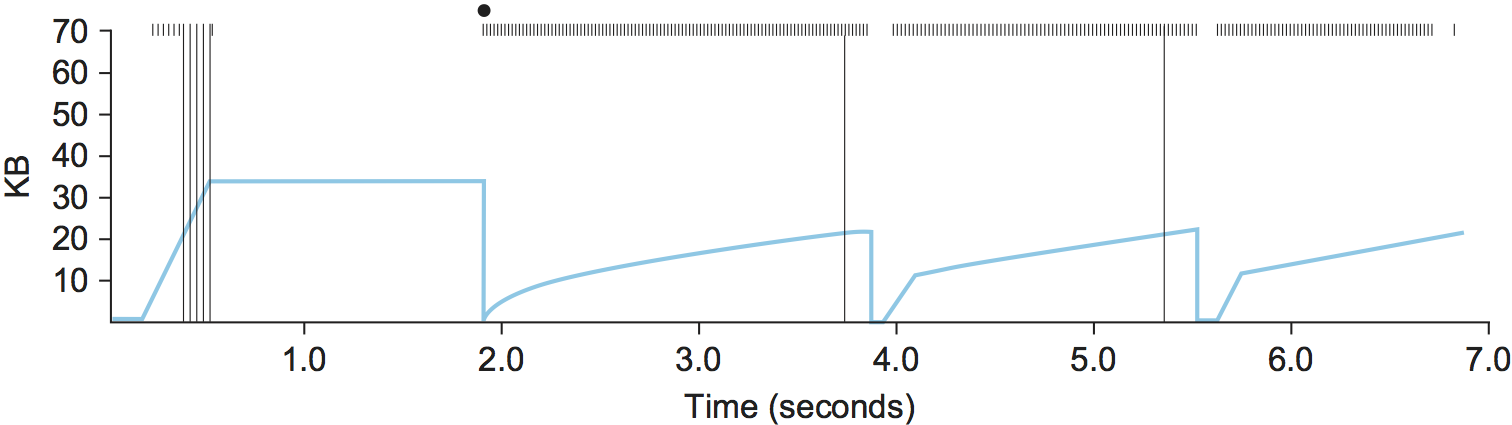
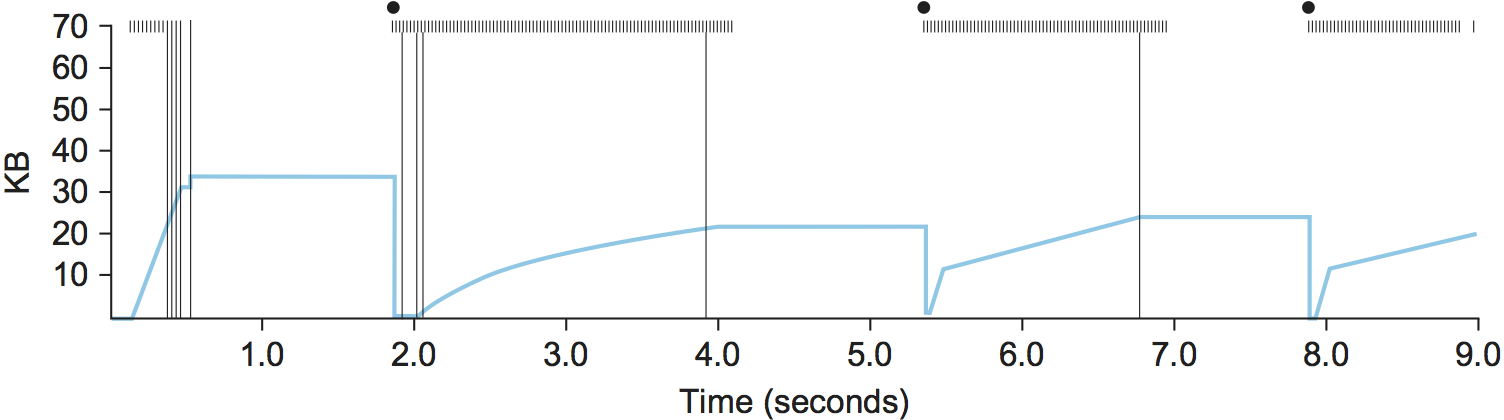
GITBOOK-21: No subject

diff --git a/chapter-5-avoidancebased-tcp-yong-sai-kong-zhi-suan-fa/5.1-tcp-vegas-wei-xiao-zheng.md b/chapter-5-avoidancebased-tcp-yong-sai-kong-zhi-suan-fa/5.1-tcp-vegas-wei-xiao-zheng.md
@@ -1,0 +1,29 @@
+# 5.1 TCP Vegas 未校正
+
+TCP Vegas背后的核心思想是基于测量的吞吐率和预期的吞吐率之间的比较，来调整发送速率。之所以要这么做的原因，可以从图29中TCP Reno的曲线看出。最上面的图跟踪了连接的拥塞窗口；它与上一章中展示的信息一样。中间和下面的图提供了新的信息。中间的图展示了发送端的发送速率，下面的图展示了瓶颈路由器的平均队列长度。3 个图的时间轴时同步的。在 4.5 和 6 秒之间（蓝色阴影区域），拥塞窗口在增加（上图）。我们预期发送端吞吐率也增加，但是实际上却保持不变（中图）。这是因为吞吐量不能超过实际可用带宽。在这个区间内，增加窗口大小只会使得瓶颈路由器的 buffer 被填的更满（下图）。
+
+<figure><img src="../.gitbook/assets/image (16).png" alt=""><figcaption><p>图29：拥塞窗口和观察到的吞吐率（三个图是同步的）。上：拥塞窗口；中：观察到的吞吐率；下：路由器中的buffer空间。蓝线：拥塞窗口大小；实心圆点：超时发生；短竖线：每次发送packet时间；长竖线：最终要重传的packet第一次发送的时间。</p></figcaption></figure>
+
+图 29 中的现象就像是在冰上开车。速度表（对应拥塞窗口）或许显示当前速率时 30miles/h，但是从车窗外望去可以看见步行的人走的都比你快（对应测量的吞吐量），所以你直到你的实际速率小于 5miles/h。这个比喻里车轮的空转就像是上图中发送的额外的 packet，除了占用了路由器的 buffer，并没有什么实际的效果。
+
+基于这里的思想，TCP Vegas测量当前网络的带宽，当 TCP 发送端的发送速率等于当前网络带宽时，它将不会发送额外的数据。TCP Vegas 的目标是维持“正确的”网络中传输数据量。很明显，如果 TCP 发送端发送了太多数据到网络中，会导致更长的延时，甚至导致拥塞。不太明显的是，如果一个连接发送的额外数据太少，它就无法对可用网络带宽的瞬时增加做出足够快速的响应。TCP Vegas 的拥塞规避行为是基于对网络中额外数据预估值的变化，而不是仅仅基于丢包。我们接下来详细描述这里的算法。
+
+首先，定义一个 TCP 连接的 `BaseRTT` 为当网络不拥塞时一个包的 RTT。TCP Vegas取 `BaseRTT` 为所有测量到的 RTT 的最小值，通常是一个 TCP 连接的第一个包的 RTT，因为此时路由器的队列还没有因为当前这个 TCP 连接二增加。假设没有拥塞，那么预期的吞吐量 `ExpectedRate` 为：
+
+<figure><img src="../.gitbook/assets/image.png" alt="" width="373"><figcaption></figcaption></figure>
+
+这里我们假设传输中的数据量（bytes）等于 `CongestionWindow`。
+
+接下来，TCP Vegas 会计算当前的发送速率 `ActualRate`。这是通过记录每一个包的发送时间和对应的 ACK 收到时间，用这段时间发送的字节数除以时间差得到。每个 RTT 时间都会计算一次`ActualRate`。
+
+接下来，TCP Vegas 会比较`ExpectedRate`和`ActualRate`，并根据结果调整拥塞窗口大小。假设 `Diff = ExpectedRate - ActualRate`，那么 Diff 必然大于等于 0。因为当 `ActualRate` 大于 `ExpectedRate` 时，当前的 RTT 小于 `BaseRTT`。当这发生时，说明 `BaseRTT` 已经失效，我们需要更新 `BaseRTT` 为当前的 RTT。这里再定义两个阈值α和β，分别表示网络中传输的数据太少和太多。当 Diff 小于α时，TCP Vegas 在下次 RTT 中线性增加拥塞窗口大小，当 Diff 大于β时，TCP Vegas 在下次 RTT 中线性减少拥塞窗口大小。当 Diff 位于α和β之间时，TCP Vegas 保持拥塞窗口不变。
+
+很明显，当 ActualRate 越小于 ExpectedRate 时，网络会更加拥塞，暗示着发送速率该降低了。β阈值控制了这里的降低。另一方面，当 ActualRate 接近 ExpectedRate 时，TCP 连接可能未能充分利用可用的带宽。α阈值会触发增加发送速率。总体目标是保持网络中传输的数据量在α和β之间。
+
+图30展示了TCP Vegas的拥塞规避算法。上图展示了拥塞窗口的大小；下图展示了预期的和实际的吞吐量，这里的吞吐量会控制拥塞窗口的大小。下图更好的展示了算法时如何工作的。蓝色线代表了`ExpectedRate`，黑线代表了`ActualRate`。蓝色粗阴影线展示了α和β之间的区域：阴影的上边界表明了与ExpectedRate差距 α KBps，阴影的下边界表明了与`ExpectedRate`差距 β KBps。算法的目标就是让`ActualRate`位于这两个阈值之间，也就是在阴影区域内。当`ActualRate`在阴影区域下方时（也就是离`ExpectedRate`太远），TCP Vegas会减少拥塞窗口大小，因为它担心会有太多的包被缓存到网络中。类似的，当`ActualRate`在阴影区域上方时（也就是离`ExpectedRate`太近），TCP Vegas会增加拥塞窗口大小，因为它担心没有用分利用网络。
+
+<figure><img src="../.gitbook/assets/image (1).png" alt=""><figcaption><p>图30：TCP Vegas拥塞规避算法机制展示。</p></figcaption></figure>
+
+因为α和β是吞吐量差值的阈值，所以它们的单位时KBps。然而，跟Control-based拥塞算法一样，如果按照网络中传输的packet数来理解该算法，会更加精确。例如，对于一个TCP连接，其`BaseRTT`是100ms，一个packet大小是1KB，如果α = 30KBps且β = 60KBps，那么我们可以认为α表明该TCP连接需要占据网络中至少3个packet大小的buffer，而β表明该TCP连接应该占据网络中不超过6个packet大小的buffer。这样设置α和β在Vegas的最初部署中工作的很好，但是我们下一节可以看到，这些参数会随着不同的环境而持续改变。
+
+最后，你会发现TCP Vegas线性的减少拥塞窗口，这与前面提到的乘法递减以确保稳定性是矛盾的。TCP Vegas在超时发生时的确会使用乘法递减；这里的线性递减只是在拥塞发生和实际丢包之前，等于说此时什么都还没有发生，不必这么激进。

diff --git a/chapter-4-controlbased-tcp-yong-sai-kong-zhi-suan-fa/4.4-kuai-su-zhong-chuan-he-kuai-su-hui-fu-wei-xiao-zheng.md b/chapter-4-controlbased-tcp-yong-sai-kong-zhi-suan-fa/4.4-kuai-su-zhong-chuan-he-kuai-su-hui-fu-wei-xiao-zheng.md
@@ -8,11 +8,11 @@
 
 第二次发送的，相同的 ACK 被称为重复 ACK（duplicate ACK）。当发送端看到了一个重复 ACK，它就知道接收端必然收到了一个乱序的包，并且之前的包可能已经被丢弃了。当然之前的包也可能只是被耽误了，而不是被丢弃了，所以发送端会等待知道看到足够多的重复 ACK（实际中 3 个），再判断发生了丢包，并重传。这里的假设是，并且也经过了大量的实际测试，包的乱序传输比丢包要少的多。
 
-<figure><img src="../.gitbook/assets/image (1).png" alt="" width="325"><figcaption><p>图 26：基于重复 ACK 的快速重传</p></figcaption></figure>
+<figure><img src="../.gitbook/assets/image (1) (1).png" alt="" width="325"><figcaption><p>图 26：基于重复 ACK 的快速重传</p></figcaption></figure>
 
 图 26 展示了重复 ACK 时如何触发快速重传的。在这个例子里，接收端收到了 packet 1 和 2，但是 packet 3被网络丢弃了。因此接收端在收到 packet 4,5,6 时，会回复针对 packet 2 的重复 ACK（为了简化这里的描述，我们这里基于 packet1,2,3 描述，而不是基于序列号描述）。当发送端看到了针对 packet 2 的第三个重复 ACK，也就是 packet 6 触发的，它会重传 packet 3。这里注意的是，当 重传的packet 3到达接收端时，接收端会发送一个累积的 ACK 来确认包括 packet 6在内的所有收到的数据。
 
-<figure><img src="../.gitbook/assets/image (2).png" alt=""><figcaption><p>图 27：TCP 快速重传下拥塞控制行为。蓝色线=拥塞窗口随时间变化曲线；顶部实心圆点=发生超时；顶部小短竖线=发包；长竖线=最终会重传的报第一次发送的时间</p></figcaption></figure>
+<figure><img src="../.gitbook/assets/image (2) (1).png" alt=""><figcaption><p>图 27：TCP 快速重传下拥塞控制行为。蓝色线=拥塞窗口随时间变化曲线；顶部实心圆点=发生超时；顶部小短竖线=发包；长竖线=最终会重传的报第一次发送的时间</p></figcaption></figure>
 
 图 27 展示了带有快速重传机制的 TCP 的行为。将之与图 25 ，不包含快速重传，进行对比可以发现，拥塞窗口长时间保持水平，并且没有 packet 发送的过程被消除了。总的来说，在一个典型的 TCP 连接中，快速重传可以消除大概一半粗粒度的超时重传，带来大概 20% 的吞吐提升。但是需要注意的时，快速重传并没有消除全部的粗粒度超时重传。这是由于对于小的窗口，不能有对应的packet来触发重复ACK（注，假设窗口大小只有3个packet，那第1个packet丢弃了，后两个packet也只能产生2个重复ACK）。在足够多的丢包情况下，例如在初始的慢启动阶段，滑动窗口算法最终会阻塞发送方，直到发生超时。实际中，TCP的快速重传机制可以在每个窗口中最多探测3个丢包。
 

diff --git a/chapter-4-controlbased-tcp-yong-sai-kong-zhi-suan-fa/4.3-man-qi-dong-slow-start-wei-xiao-zheng.md b/chapter-4-controlbased-tcp-yong-sai-kong-zhi-suan-fa/4.3-man-qi-dong-slow-start-wei-xiao-zheng.md
@@ -40,7 +40,7 @@
 
 图 25 展示了 TCP 的`CongestionWindow`如何随着时间增加和减少，并图示了慢启动和加法递增/乘法递减是如何交互的。这里的数据来自一个真实的 TCP 连接。
 
-<figure><img src="../.gitbook/assets/image.png" alt=""><figcaption><p>图 25. TCP 拥塞控制行为。蓝色线=拥塞窗口随时间变化曲线；顶部实心圆点=发生超时；顶部小短竖线=发包；长竖线=最终会重传的报第一次发送的时间</p></figcaption></figure>
+<figure><img src="../.gitbook/assets/image (2).png" alt=""><figcaption><p>图 25. TCP 拥塞控制行为。蓝色线=拥塞窗口随时间变化曲线；顶部实心圆点=发生超时；顶部小短竖线=发包；长竖线=最终会重传的报第一次发送的时间</p></figcaption></figure>
 
 * 这个图里，最开始就是由于慢启动迅速增加的拥塞窗口大小。慢启动一直持续直到 0.4 秒左右开始部分包被丢弃了。之后`CongestionWindow`一直保持在 34KB（为什么会有这么多包在慢启动过程中丢弃，会在后面介绍）。拥塞窗口一直保持不变是因为是因为发生了丢包，从而导致一直没有收到 ACK（注，没有 ACK，不管时慢启动还是加法递增，都没法增加拥塞窗口大小）。实际上，这段时间也没有发送新的 packet，图中上方的小短竖线一直为空。
 * 随后在大约 2 秒的位置，终于发生了超时。此时设置 `CongestionThreshold` 为 `CongestionWindow/2`（大概 17KB）。慢启动设置`CongestionWindow`为 1 个 packet，并重新启动。

diff --git a/chapter-5-avoidancebased-tcp-yong-sai-kong-zhi-suan-fa/README.md b/chapter-5-avoidancebased-tcp-yong-sai-kong-zhi-suan-fa/README.md
@@ -1,0 +1,7 @@
+# Chapter 5: Avoidance-Based TCP拥塞控制算法
+
+如果查看TCP拥塞控制的学术文献，1988年和1990年分别引入的原始TCP Tahoe和Reno机制与1994年开始的一波新潮流之间存在明显差距，这一波新潮流的标志是一种称为TCP Vegas的替代方法的引入。它触发了大量的比较性研究和不同的设计，并且持续了 超过25 年。
+
+_更多阅读：L. Brakmo, S. O’Malley and L. Peterson_ [_TCP Vegas: New Technique for Congestion Detection and Avoidance_](https://sites.cs.ucsb.edu/\~almeroth/classes/F05.276/papers/vegas.pdf)_. ACM SIGCOMM ‘94 Symposium. August 1994. (Reprinted in IEEE/ACM Transactions on Networking, October 1995)._
+
+之前的所有 TCP 拥塞控制算法都将丢包看作拥塞信号，并反应式的进行拥塞。TCP Vegas采用的是一种基于规避（avoidance-based）的方法来应对拥塞：它尝试探测吞吐速率的变化，并在拥塞变得严重到导致丢包前，调整发送速率，进而避免丢包的发生。这一章描述通用的“Vegas 策略”，以及基于这个策略的 3 个变种实现。这一类算法的研究，以 Google 推出的 BBR 算法最为出众。

diff --git a/SUMMARY.md b/SUMMARY.md
@@ -10,3 +10,5 @@
   * [4.4 快速重传和快速恢复 未校正](chapter-4-controlbased-tcp-yong-sai-kong-zhi-suan-fa/4.4-kuai-su-zhong-chuan-he-kuai-su-hui-fu-wei-xiao-zheng.md)
   * [4.5 其他的修修补补 未校正](chapter-4-controlbased-tcp-yong-sai-kong-zhi-suan-fa/4.5-qi-ta-de-xiu-xiu-bu-bu-wei-xiao-zheng.md)
   * [4.6 TCP CUBIC 未校正](chapter-4-controlbased-tcp-yong-sai-kong-zhi-suan-fa/4.6-tcp-cubic-wei-xiao-zheng.md)
+* [Chapter 5: Avoidance-Based TCP拥塞控制算法](chapter-5-avoidancebased-tcp-yong-sai-kong-zhi-suan-fa/README.md)
+  * [5.1 TCP Vegas 未校正](chapter-5-avoidancebased-tcp-yong-sai-kong-zhi-suan-fa/5.1-tcp-vegas-wei-xiao-zheng.md)
